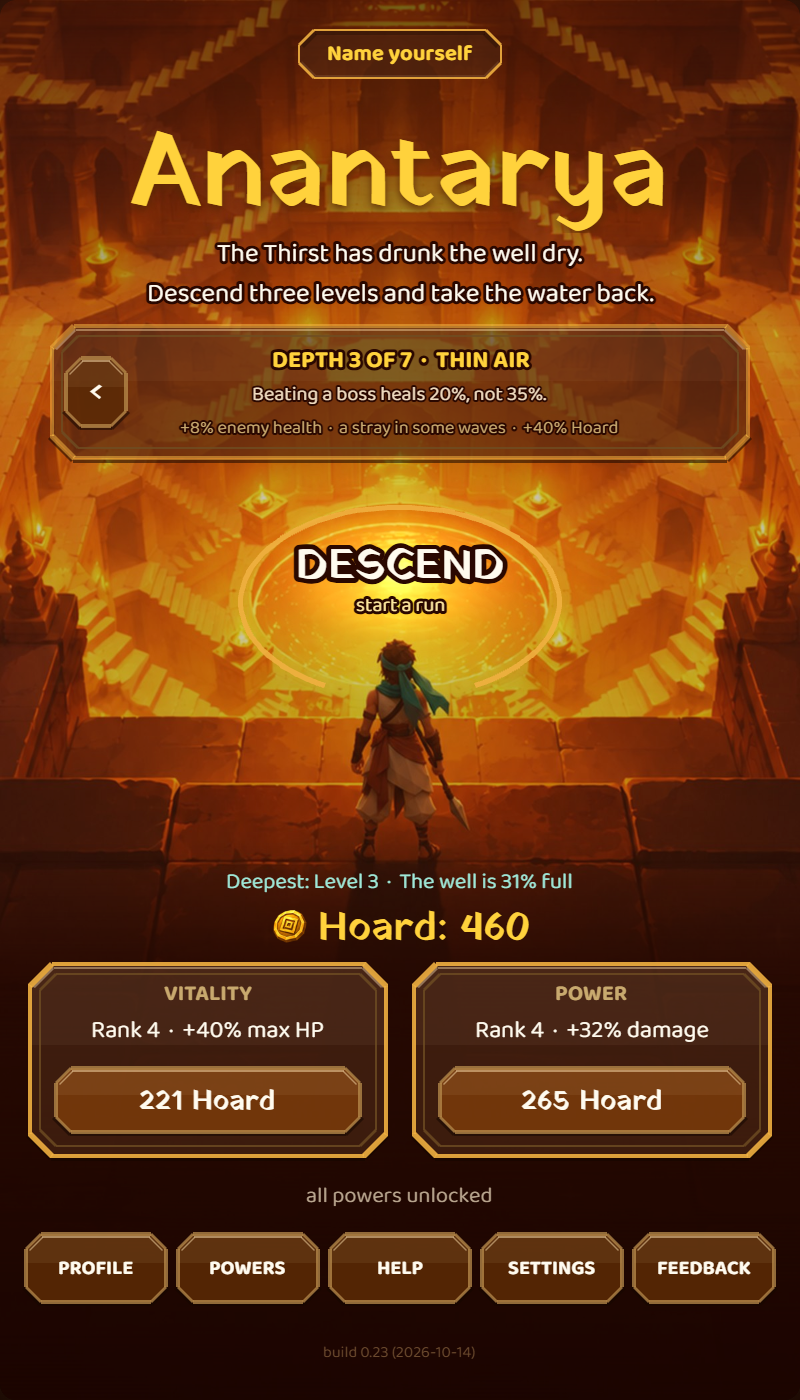
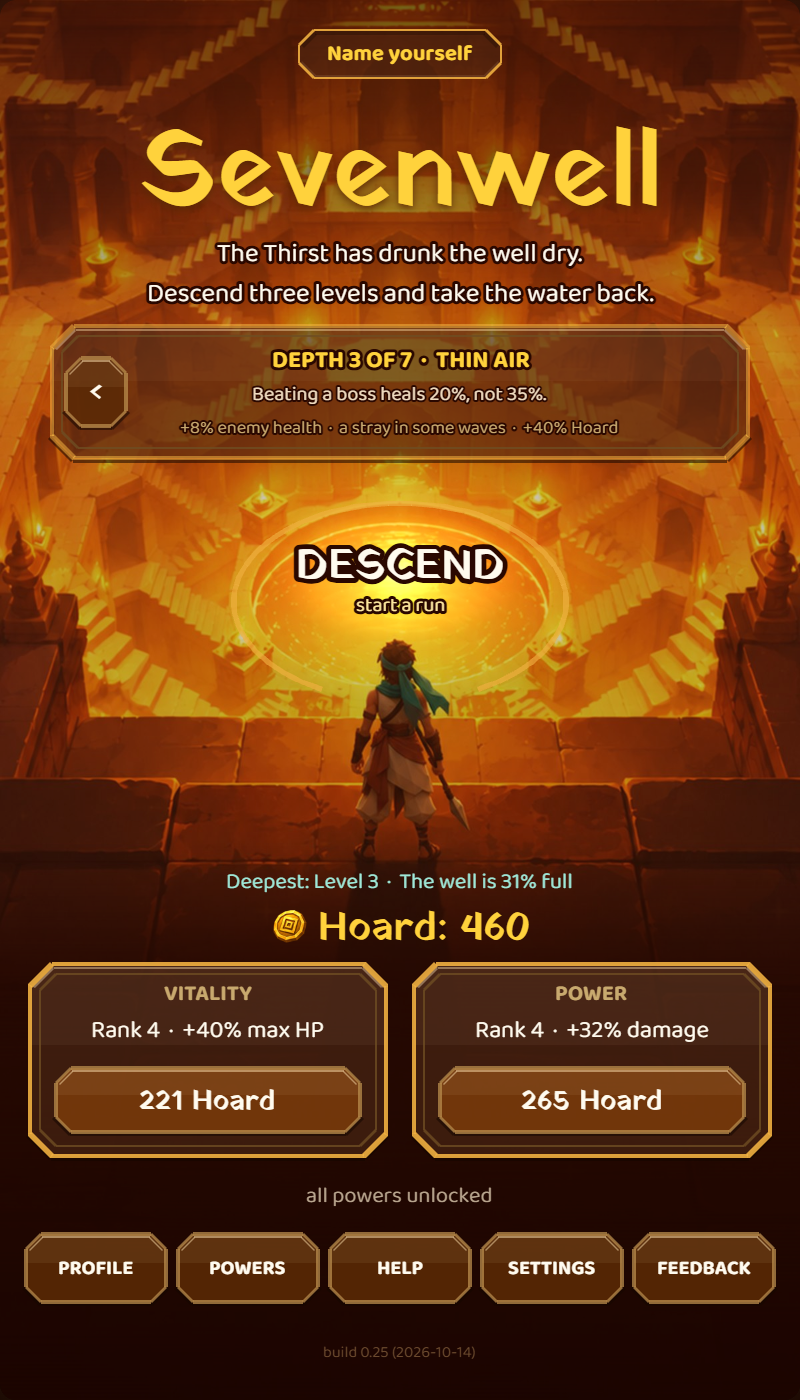
Build 0.25: the game is named Sevenwell
GAME_TITLE, the page's title, the loader's heading and the front page (with
a description that no longer leads with "Indian myth"). The itch zip is now
sevenwell-0.25-itch.zip; the title screenshot and cover are remade. File
names and save keys keep "loot-chase", so no save is lost. Launch track L1
closed. check-game 30/30, smoke 128/128, package 31/31.

diff --git a/game/loot-chase-v0.1.html b/game/loot-chase-v0.1.html
@@ -8,17 +8,17 @@
      addresses; the sound that wakes an iPhone is a blob:. Nothing inline runs. -->
 <meta http-equiv="Content-Security-Policy" content="default-src 'self'; script-src 'self'; style-src 'self'; img-src 'self' data: blob:; media-src 'self' data: blob:; font-src 'self'; connect-src 'self' https://formsubmit.co/ajax/; object-src 'none'; base-uri 'self'; form-action 'none'">
 <meta name="theme-color" content="#2a0800">
-<title>Anantarya</title>
+<title>Sevenwell</title>
 <!-- Typefaces (requirements 2.18): Yatra One for display, Baloo 2 for everything else.
      Both are open-licence (OFL) and carry Devanagari and Latin in one design. The files
      sit beside the game in vendor/fonts/ with their licences, cut into the same three
      ranges Google Fonts serves, so a browser fetches only the ones a page uses. The
      loader below waits for them, with a timeout. -->
-<link rel="stylesheet" href="styles/game.css?v=0.24">
+<link rel="stylesheet" href="styles/game.css?v=0.25">
 </head>
 <body>
 <div id="loader">
-  <h1 class="ldr-title" id="ldr-title">Anantarya</h1>
+  <h1 class="ldr-title" id="ldr-title">Sevenwell</h1>
   <p class="ldr-tag">auto-battle · collect loot · descend deeper</p>
   <div class="card" id="ldr-card" role="button" tabindex="0" aria-label="Glossary card. Activate for another word.">
     <div class="card-kind" id="ldr-kind"></div>
@@ -95,25 +95,25 @@
 <div id="game-container"></div>
 <!-- The game is ordered classic scripts sharing one scope (docs/code-architecture.md). These run before the engine.
      Each carries the build (?v=, BUILD_TAG in src/config.js), so a phone never mixes two builds; change all of them with BUILD. -->
-<script src="src/config.js?v=0.24"></script>
-<script src="src/names.js?v=0.24"></script>
-<script src="src/rules.js?v=0.24"></script>
-<script src="src/calculations.js?v=0.24"></script>
-<script src="src/persistence.js?v=0.24"></script>
-<script src="src/loader.js?v=0.24"></script>
-<script src="src/dialogs.js?v=0.24"></script>
+<script src="src/config.js?v=0.25"></script>
+<script src="src/names.js?v=0.25"></script>
+<script src="src/rules.js?v=0.25"></script>
+<script src="src/calculations.js?v=0.25"></script>
+<script src="src/persistence.js?v=0.25"></script>
+<script src="src/loader.js?v=0.25"></script>
+<script src="src/dialogs.js?v=0.25"></script>
 <!-- The engine: Phaser 3.70.0, the published file, kept beside the game (vendor/phaser-LICENSE.md). -->
 <script src="vendor/phaser-3.70.0.min.js"></script>
 <!-- These need the engine. boot.js starts the one game. -->
-<script src="src/audio.js?v=0.24"></script>
-<script src="src/assets.js?v=0.24"></script>
-<script src="src/ui.js?v=0.24"></script>
-<script src="src/floors.js?v=0.24"></script>
-<script src="src/scene-ui.js?v=0.24"></script>
-<script src="src/scene-fx.js?v=0.24"></script>
-<script src="src/scene-screens.js?v=0.24"></script>
-<script src="src/scene-systems.js?v=0.24"></script>
-<script src="src/loot-scene.js?v=0.24"></script>
-<script src="src/boot.js?v=0.24"></script>
+<script src="src/audio.js?v=0.25"></script>
+<script src="src/assets.js?v=0.25"></script>
+<script src="src/ui.js?v=0.25"></script>
+<script src="src/floors.js?v=0.25"></script>
+<script src="src/scene-ui.js?v=0.25"></script>
+<script src="src/scene-fx.js?v=0.25"></script>
+<script src="src/scene-screens.js?v=0.25"></script>
+<script src="src/scene-systems.js?v=0.25"></script>
+<script src="src/loot-scene.js?v=0.25"></script>
+<script src="src/boot.js?v=0.25"></script>
 </body>
 </html>

diff --git a/index.html b/index.html
@@ -4,14 +4,14 @@
 <meta charset="utf-8">
 <meta name="viewport" content="width=device-width, initial-scale=1, viewport-fit=cover">
 <meta name="theme-color" content="#2a0800">
-<!-- Working title (2026-10-02). The game reads its name from GAME_TITLE in
+<!-- The game's name (2026-10-14). The game reads it from GAME_TITLE in
      game/src/config.js; this redirect page carries its own copy below. -->
-<title>Anantarya</title>
-<meta name="description" content="An arena roguelite steeped in Indian myth. Read the Cosmic Cycle, learn the bosses, descend deeper.">
+<title>Sevenwell</title>
+<meta name="description" content="A one-thumb arena roguelite set in a stepwell. Descend seven depths, beat the serpent who drank the well dry, and bring the water back.">
 
 <!-- Into the game, at the build's own address (?v=, BUILD_TAG in game/src/config.js), so a
      phone holding the last build's page from its cache is sent to this one's. -->
-<meta http-equiv="refresh" content="0; url=game/loot-chase-v0.1.html?v=0.24">
+<meta http-equiv="refresh" content="0; url=game/loot-chase-v0.1.html?v=0.25">
 
 <style>
   html, body {
@@ -33,9 +33,9 @@
 <body>
   <!-- Shown only if the redirect above is blocked. -->
   <main>
-    <h1>Anantarya</h1>
+    <h1>Sevenwell</h1>
     <p>auto-battle &middot; collect loot &middot; descend deeper</p>
-    <a href="game/loot-chase-v0.1.html?v=0.24">Play</a>
+    <a href="game/loot-chase-v0.1.html?v=0.25">Play</a>
   </main>
 </body>
 </html>

diff --git a/game/src/config.js b/game/src/config.js
@@ -28,11 +28,12 @@ const QUERY = new URLSearchParams(location.search);
 const pickFrom = (list, key, otherwise) => Object.prototype.hasOwnProperty.call(list, key) ? list[key] : list[otherwise];
 
 // One line to rename the game: the browser tab, the loading screen and the hub all read
-// this. (Working title, 2026-10-02 - the founder will settle the final name later. The
-// root index.html redirect page carries its own copy.)
-const GAME_TITLE = 'Anantarya';
+// this. The founder named the game on 2026-10-14 (build 0.25); "Anantarya" was the working
+// title from 2026-10-02. The root index.html redirect page carries its own copy. File names and
+// the save's keys still say "loot-chase" on purpose: renaming them would lose players' saves.
+const GAME_TITLE = 'Sevenwell';
 
-const BUILD = '0.24 (2026-10-14)';
+const BUILD = '0.25 (2026-10-14)';
 // Every file the game fetches carries the build in its address (?v=0.16), so that a phone
 // holding files of the last build from its cache cannot mix them with this one's: a new
 // build is new addresses throughout (2026-10-12: a phone ran build 0.15's code against

diff --git a/docs/design-document.md b/docs/design-document.md
@@ -56,7 +56,7 @@ Work agreed in principle and not to be started on a date, but when a stated cond
 |---|---|---|
 | Built, waiting for the founder's eye on a phone | L12 tutorial, L13 free rides | Played by the bot and the tests only |
 | Done in Beta, waiting to reach `main` | Build 0.22: every boon has a place, lighter small labels, the security pass (L11). Build 0.23: six names (The Thirst, Overdrive, Imp, Hoard, Storm Disc, Zenith), a pickup that never makes the hero weaker, Overdrive's button naming its power | Local; the founder's word to push and merge |
-| Waiting on the founder | L1 the name ("Wellkeeper" chosen 2026-10-14, then held: a Steam game called Well Keeper, same genre, also in a well, was found), L8 a mid-range Android | L10's alias went in with build 0.24; L11's history decision was made (left as it is) |
+| Waiting on the founder | L8 a mid-range Android; the itch.io draft page | L1 the name is Sevenwell (build 0.25); L10's alias went in with build 0.24; L11's history decision was made (left as it is) |
 | Claude's, under way | V14 the store's pictures from build 0.22 | |
 | Agreed plan for release (2026-10-14) | L9: an itch.io draft page shared by secret link with five outside players (P11), then public | The founder creates the page; Claude prepares everything for it |
 | Parallel, not in the release | L16 / Version Gamma, ChatGPT's build of the restyle in its own repository | At its first review stop (title, boon pick, profile) |
@@ -65,7 +65,7 @@ Founder call, 2026-09-27: gameplay is ~99% done for the POC. That meets the cond
 
 | # | Item | State today | Done when |
 |---|---|---|---|
-| L1 | **Game name** | **Working title: Anantarya** (founder, 2026-10-02: "will give name later"). One constant, `GAME_TITLE`, renames the loader, hub and browser tab; `index.html` carries its own copy. Earlier candidates: "Loot Chase" (generic, pre-pivot) and the repo name "Tantra" (reads as sexual/new-age to a Western audience, and is a religious practice term). One caution on the working title is logged in `requirements.md` §1.7. **Still undecided on 2026-10-06** (founder). | A final name is chosen. It still blocks L2's art and L9's store page. |
+| L1 | **Game name** | ✅ **Sevenwell** (founder, 2026-10-14, build 0.25), after "Wellkeeper" the same day was set aside when a Steam game, Well Keeper, turned out to share its genre and its well. Before it, **working title: Anantarya** (founder, 2026-10-02: "will give name later"). One constant, `GAME_TITLE`, renames the loader, hub and browser tab; `index.html` carries its own copy. Earlier candidates: "Loot Chase" (generic, pre-pivot) and the repo name "Tantra" (reads as sexual/new-age to a Western audience, and is a religious practice term). One caution on the working title is logged in `requirements.md` §1.7. **Still undecided on 2026-10-06** (founder). | A final name is chosen. It still blocks L2's art and L9's store page. |
 | L2 | **Title / welcome screen** (= P1) | ⏳ **First design built 2026-10-02** (`requirements.md` §2.21): the view down a stepwell shaft, with DESCEND at the bottom of the well and the upgrades below. **Verdict, 2026-10-06: explore made art next.** `docs/art-prompts.md` §1 now has three directions with prompts, and `docs/title-art-layout.jpg` marks where the title, the button and the menu sit. Next step is the founder's: make candidate pictures and drop them in `game/assets/incoming/`; each is then fitted behind the real title screen and shown before anything is kept. The drawn shaft stays until one is chosen. **2026-10-10: the founder's first candidate** (a stepwell seen from above, lamps, a glowing pool, a small figure on the top ledge, dark stone below; pasted into the chat, kept as `game/assets/incoming/title-candidate-1.webp`, which is not in git) was fitted two ways and shown: A, dropped in behind today's layout, with the pool under DESCEND; B, the screen laid out round it, with the pool itself as the way in, the depth chooser moved up under the opening lines so the figure is seen, and the pool dimmed by the water still missing, so a new player's well is dark and a full one blazes (`concept/title-2026-10-10-candidate-1-mocks.jpg`, `-water.jpg`). Nothing in the game has changed. Told to the founder: the picture is 940 pixels wide and is enlarged on a phone, so a larger export is wanted; the moving stairwell of the drawn screen would be lost; which tool made it decides whether it may be used commercially; and the AI disclosure for graphics becomes yes when it goes in. **Founder's answer, same day: B, but the top half was too dark to show the stairwell, keep the drifting embers and the pulsing glow; made with ChatGPT.** B was re-shot with the picture's shadows lifted in its upper half and a lighter veil (`concept/title-2026-10-10-candidate-1-B-lifted.jpg`); nothing in the game has changed yet. Waiting on: approval of the lifted version, and a larger file. **Later the same day, in the other of the founder's two sessions, they chose otherwise: "Use fit 2 for the title screen."** Fit 2 is the picture behind today's layout, moved up so its pool lies under DESCEND and fading into the dark below the ledge (`concept/title-2026-10-10-fit-2-pool-under-descend.png`). ✅ **Built as build 0.14** (`requirements.md` §2.21). Layout B is not built; that session's unfinished work on it was left as it was. Still wanted: a larger export of the picture (it is 940 pixels wide and a phone enlarges it by about a quarter). | A Cosmic Forge title screen with the name, art and a Start that leads into the hub. |
 | L3 | **How to play** | ✅ **Built 2026-09-27**: illustrated cards (`requirements.md` §2.12.2), ten since The Goal, Boons and Depths · Perks were added. | A help page reachable from the title and the hub. |
 | L4 | **First-run tutorial** (= P3) | ✅ **Built 2026-09-27**: 14 one-time live tips, skippable (§2.12.1). **2026-10-10: the founder wants it stronger before launch; see L12.** | Wave 1 of a player's first run teaches movement, loot, the satchel and slams live. |

diff --git a/docs/itch-page.md b/docs/itch-page.md
@@ -8,7 +8,7 @@ creating the itch.io account and signing in cannot be done for them.
 
 | What | Whose | Why it matters here |
 |---|---|---|
-| The game's name (L1) | Founder | The title, the page address and the cover all carry it. Everything below says "Anantarya", the working title |
+| ~~The game's name (L1)~~ | Done, 2026-10-14 | **Sevenwell.** The page address is made from it: `sevenwell` |
 | ~~The FormSubmit alias (L10)~~ | Done, build 0.24 | The founder's address is no longer in the page |
 | A mid-range Android (L8) | Founder | The wide arena has only run on an iPhone 16 Pro Max |
 | The security pass (L11) | Claude, just before the upload | `pre-launch-security-checklist.md` |
@@ -34,7 +34,7 @@ cannot be changed later without breaking every link sent.
 
 | File | What it is | Where it goes |
 |---|---|---|
-| `dist/anantarya-0.23-itch.zip` | The game: 127 files, 9.55 MB. Made by `python tools/build-itch.py` | Uploads |
+| `dist/sevenwell-0.25-itch.zip` | The game: 127 files, 9.55 MB. Made by `python tools/build-itch.py` | Uploads |
 | `store/itch/cover-draft.png` | Cover, 630 by 500. **A draft: it carries the working title** | Cover image |
 | `store/itch/1-title.png` | The title screen, the well part filled | Screenshots, in this order |
 | `store/itch/2-drowned-steps.png` | Brutes, Hexers and imps on level 2, the flooded landing | |
@@ -60,7 +60,7 @@ itch.io's own wording may differ a little from what is written here.
 
 | Field | Put |
 |---|---|
-| Title | Anantarya (the final name, once chosen) |
+| Title | Sevenwell |
 | Project URL | the name in lower case; it cannot be changed without breaking links, so set it after the name is final |
 | Short description or tagline | see §3 |
 | Classification | Games |
@@ -94,7 +94,7 @@ keeps no Sanskrit word in its default names), no hero's name, nothing sacred.
 
 > **The Thirst, a serpent, has drunk the well dry. He is at the bottom of it.**
 >
-> Anantarya is an arena roguelite made for a phone and one thumb. Your hero strikes on
+> Sevenwell is an arena roguelite made for a phone and one thumb. Your hero strikes on
 > their own. Your whole job is choosing where to stand.
 >
 > - **Three levels down, a boss on each.** The Gatekeeper bars the way. The Hoard

diff --git a/docs/requirements.md b/docs/requirements.md
@@ -37,6 +37,7 @@ Kept so a reversal is never mistaken for drift or an error.
 
 | Date | Change | Reason |
 |---|---|---|
+| 2026-10-14 | **The game is named Sevenwell.** Build 0.25. `GAME_TITLE`, the page's title, the loading screen, the front page. Launch track L1 closed. | The founder: "Lets go with Sevenwell". The seven depths of the well are the game's spine (§2.30). Their first choice the same day, "Wellkeeper", was set aside after a search found Well Keeper, a Steam roguelite of the same kind set at the bottom of a well; no game called Sevenwell was found. File names and the save's keys keep "loot-chase", so no save is lost. |
 | 2026-10-14 | **Six names change; a pickup never makes the hero weaker; Overdrive's button names its power.** Build 0.23 on Version Beta. §2.12, §2.7, §2.7.1, §2.15. | The founder, of names "sounding too Indian and difficult": "The Thirst for Vritra, Overdrive for Tejas, Imp for Asura, Hoard for Nidhi, Storm Disc for Storm Chakram, Zenith for Convergence" (chosen from options offered the same day). On pickups: "any time I pickup a drop, it should go to the satchel. An inferior drop replacing a superior drop doesn't make sense"; of the two ways offered they chose the second: a drop is worn at once only when plainly better, else kept. On Overdrive: "Tejas order is too random"; the cause was that its power follows the weapon and the weapon changed with every pickup. They chose to keep the power with the weapon and make it plain (option A). |
 | 2026-09-24 | **Secular/no-mythology → Indian cultural identity.** §1.2.5 and the §1.3 non-goal both reversed. | Founder decision: market this as an Indian game, with Sanskrit naming and non-explicit Hindu-mythological flavour. Judged the project's strongest differentiator. |
 | 2026-09-24 | **"Cut Light" → "Cosmic Forge."** §2.10 rewritten. | "Cut Light" rejected as too dark and generic — dark background with purple/cyan accents reads as every other indie roguelite (Hades, Dead Cells). Warm amber/gold chosen instead. A first Cosmic Forge pass on `#170A00` was *also* rejected as still too dark; the background was brightened to saffron-amber. |

diff --git a/README.md b/README.md
@@ -1,4 +1,4 @@
-# Anantarya (working title; the repository is still "Loot Chase")
+# Sevenwell (the repository and its files are still called "Loot Chase")
 
 A one-thumb arena roguelite set in a stepwell: descend three levels, beat the serpent
 who drank the well dry, and bring the water back. Mobile-first, plays in a browser.
